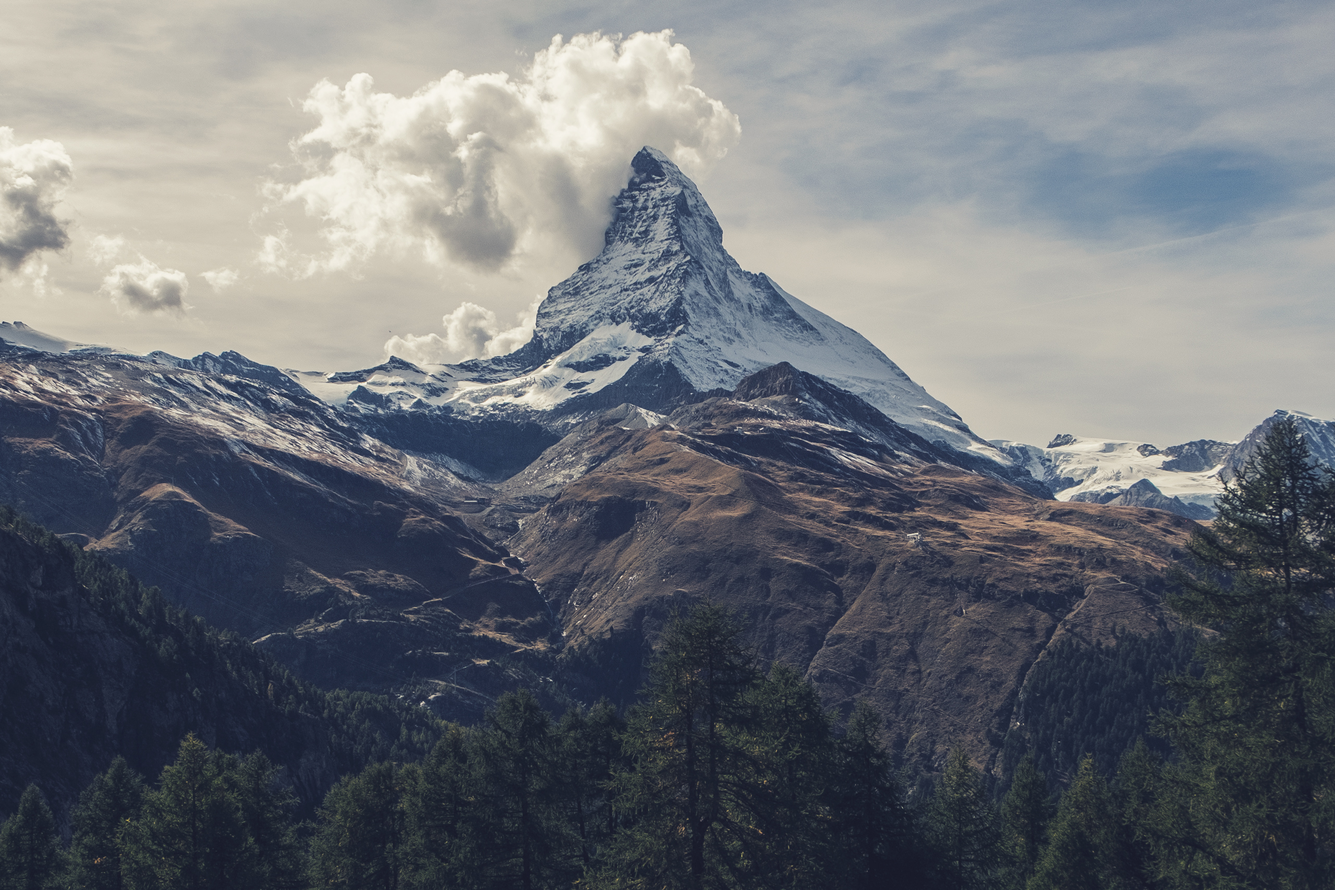
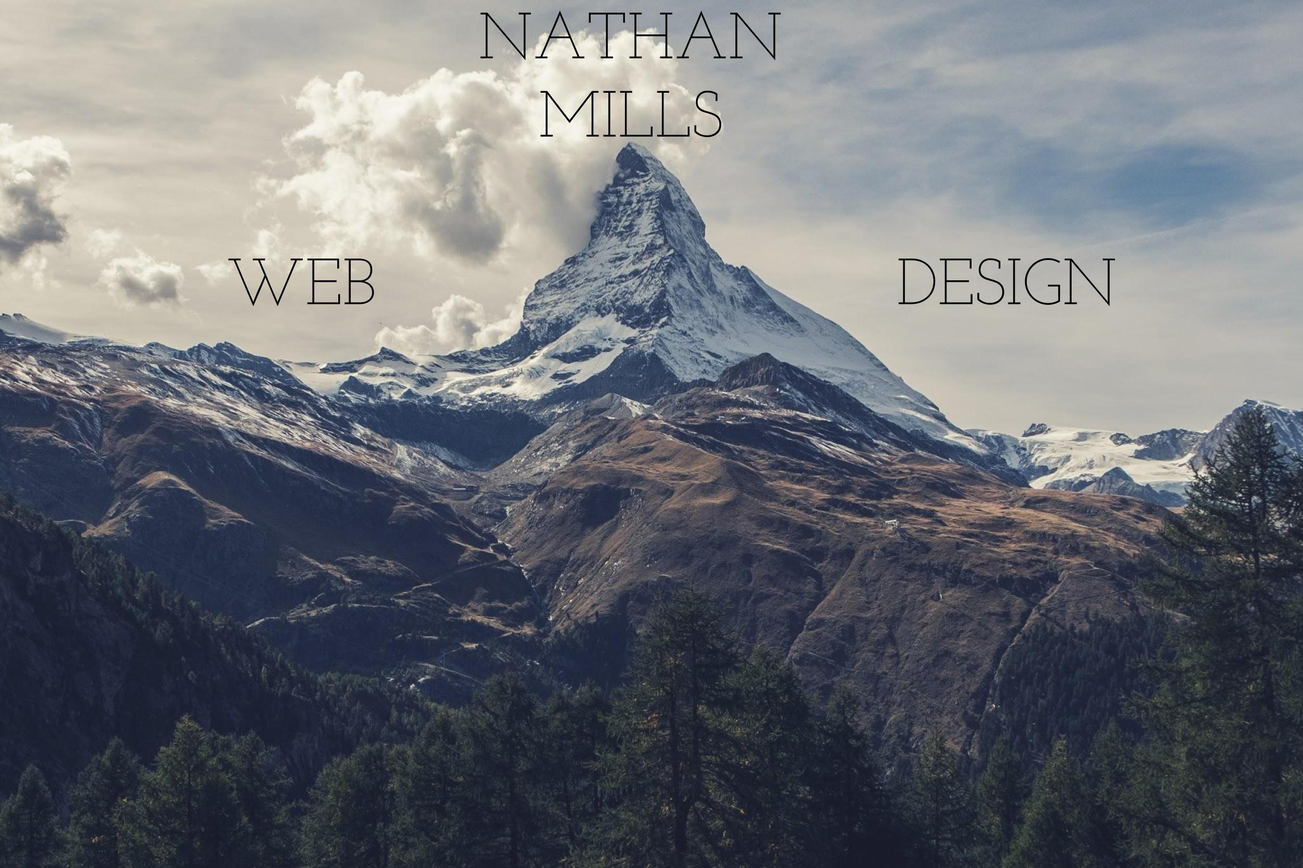
beaetat

diff --git a/contact.html b/contact.html
@@ -16,7 +16,7 @@ html, body{overflow:hidden;}
   padding-top: 0px;
   text-align: center;
   font-family: Josefin Sans, monospace;
-  background-image: url(background.jpg);
+  background-image: url(background_2.jpg);
   background-repeat:no-repeat;
   background-size:cover;
   background-attachment: fixed;
@@ -64,20 +64,17 @@ a {
 
 h2 {
      display: inline-block;
-     width: 740px;
-     height: 230px;
-     background-color: rgba(206, 199, 183,0.6);
+     width: 1150px;
+     height: 205px;
+     background-color: rgba(186, 180, 167,0.7);
      font-size: 55px;
      color: #F4F0E7;
      margin-top: 125px;
      letter-spacing: 7px;
-     padding-top: 25px;
+     padding-top: 45px;
+     padding-bottom: 0px;
      text-align: center;
      text-decoration: none;
-     border-style: solid;
-     border-radius: 7px;
-     border-width: 7px;
-     border-color: rgba(206, 199, 183,0.4);
 }
 
 </style>

diff --git a/gallery.html b/gallery.html
@@ -19,7 +19,7 @@ body::-webkit-scrollbar {
   padding-top: 0px;
   text-align: center;
   font-family: Josefin Sans, monospace;
-  background-image: url(background.jpg);
+  background-image: url(background_2.jpg);
   background-repeat:no-repeat;
   background-size:cover;
   background-attachment: fixed;
@@ -67,6 +67,7 @@ a.one {
 
 a.two{
     text-decoration: none;
+
 }
 
 </style>

diff --git a/index.html b/index.html
@@ -69,7 +69,7 @@ a {
   vertical-align: middle;
   padding: 15px;
   margin: 15px;
-  margin-top: 135px;
+  margin-top: 500px;
   margin-right: 100px;
   margin-left:100px;
 }
@@ -102,11 +102,6 @@ h1 {
 
 </style>
 <body>
-
-
-<h2>NATHAN<br> MILLS</h2><br>
-
-<h3>WEB DESIGN</h3>
 
 <a href="contact.html">CONTACT</a>
 
